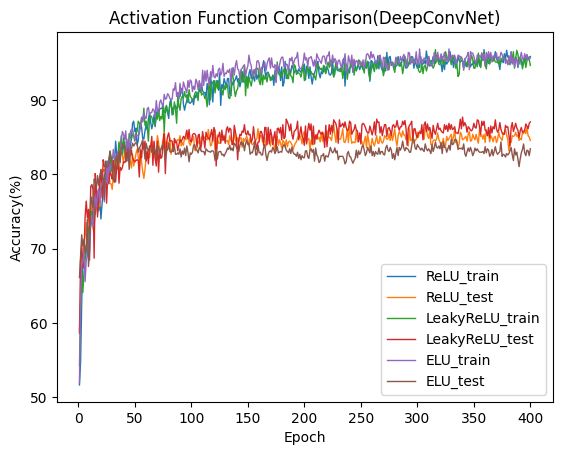
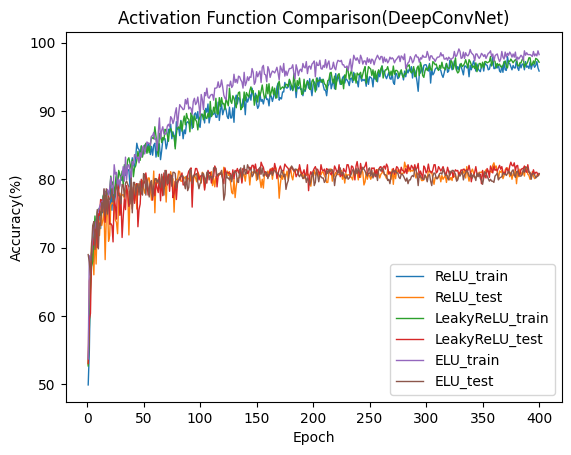
DCN origin comparison graph

diff --git a/train.py b/train.py
@@ -33,7 +33,7 @@ if __name__ == "__main__":
         if network == "EEGNet":
             model = EEGNet(activation).to(device)
         else:
-            model = DeepConvNet(activation).to(device)
+            model = DeepConvNetOrigin(activation).to(device)
         optimizer = torch.optim.Adam(model.parameters(), lr=learning_rate)
 
         *accuracy, = epoch_loop(epochs, trainLoader, testLoader, model, loss_function, optimizer)
